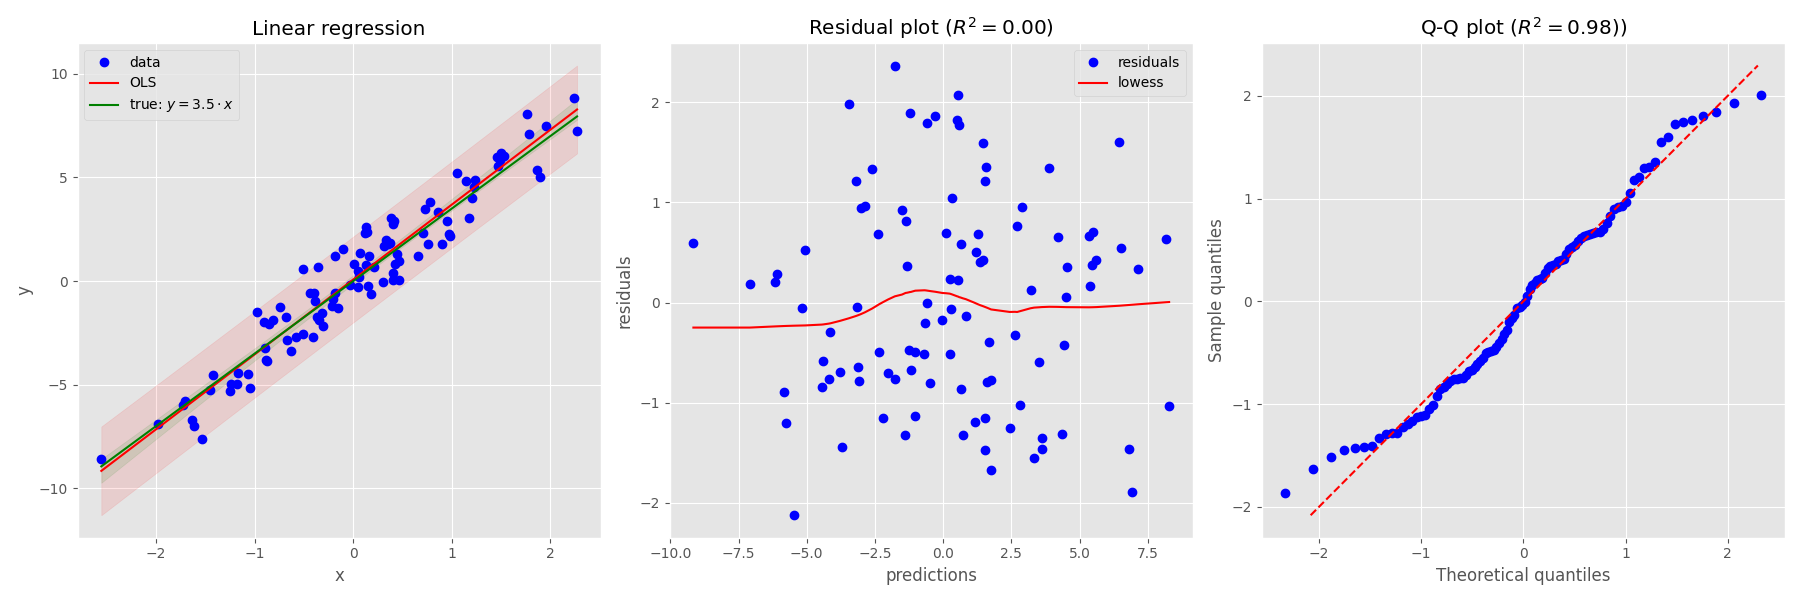
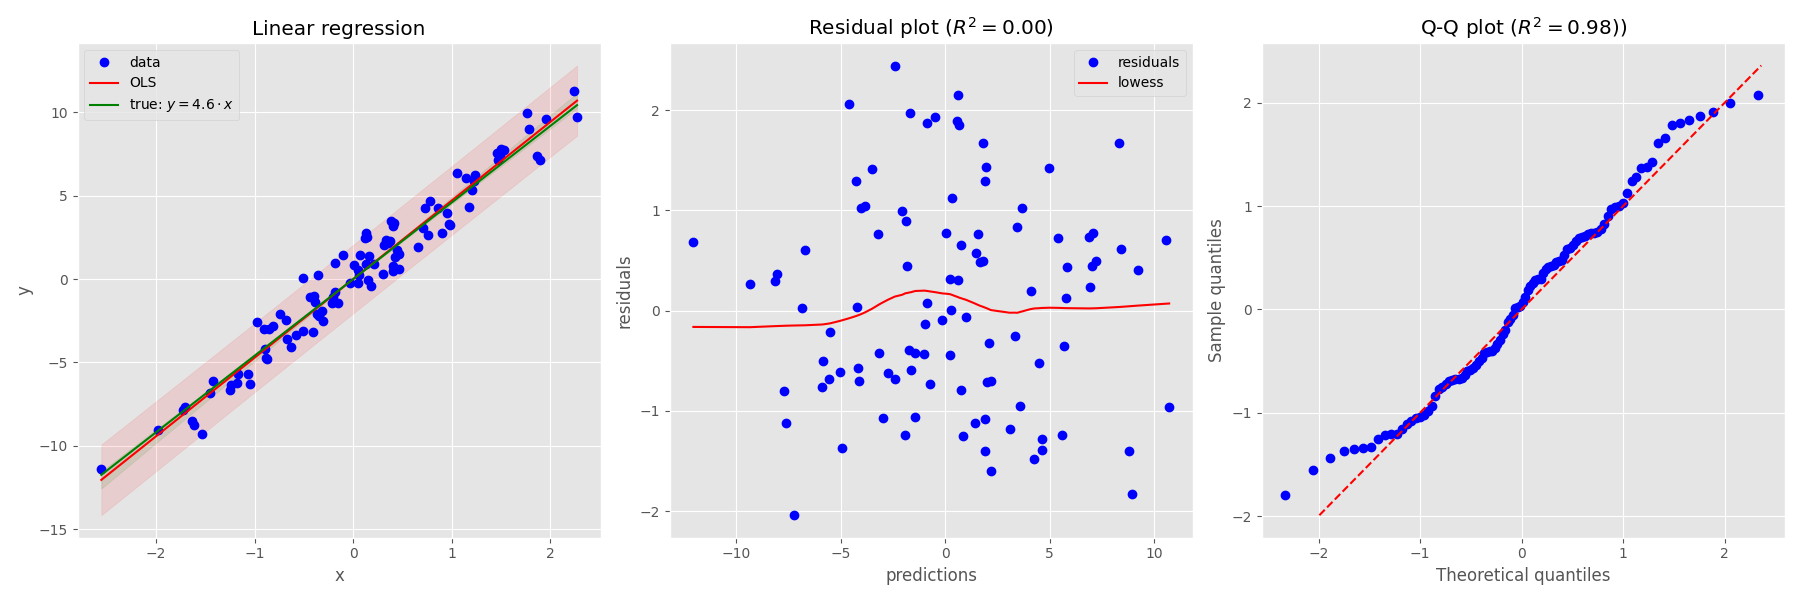
Add command line options

diff --git a/linear.py b/linear.py
@@ -26,10 +26,10 @@ def main(args):
 
     # Simulate data with a linear relationship
     rnd = np.random.RandomState(args.seed)
-    X = rnd.normal(size=(100, ))  # 100 samples (data)
-    b = 3.5  # slope
-    z = rnd.normal(size=(100, ))  # 100 samples (noise)
-    y = b*X + z  # 100 samples (target)
+    X = rnd.normal(size=(args.samples, ))  # samples (data)
+    b = args.slope  # slope
+    z = rnd.normal(size=(args.samples, ))  # samples (noise)
+    y = b*X + z  # samples (target)
 
     # Create a pandas dataframe
     features = ['x']
@@ -37,8 +37,10 @@ def main(args):
     df = pd.DataFrame(np.stack((X, y), axis=1), columns=features + label)
 
     # Fit the model
-    # formula = 'y ~ x -1'  # y = b * x + z (do not fit the intercept)
-    formula = 'y ~ x'  # y = b * x + z
+    if args.no_intercept:
+        formula = 'y ~ x -1'  # y = b * x + z (do not fit the intercept)
+    else:
+        formula = 'y ~ x'  # y = b * x + z
     model = smf.ols(formula=formula, data=df)
     results = model.fit()
 
@@ -126,6 +128,14 @@ if __name__ == '__main__':
                         type=float,
                         default=3.5,
                         help='Slope of the linear relationship')
+    parser.add_argument('-n',
+                        '--samples',
+                        type=int,
+                        default=100,
+                        help='Number of samples')
+    parser.add_argument('--no-intercept',
+                        action='store_true',
+                        help='Do not fit the intercept')
     parser.add_argument('-s', '--seed', type=int, default=0, help='Random seed')
     args = parser.parse_args()
 
